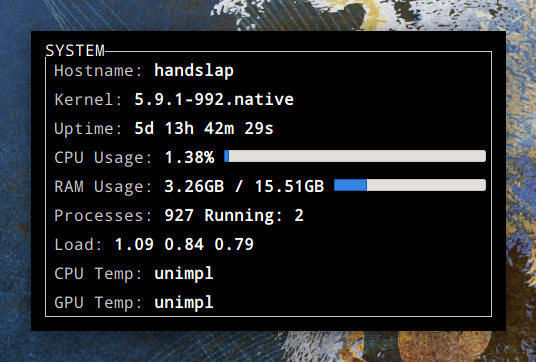
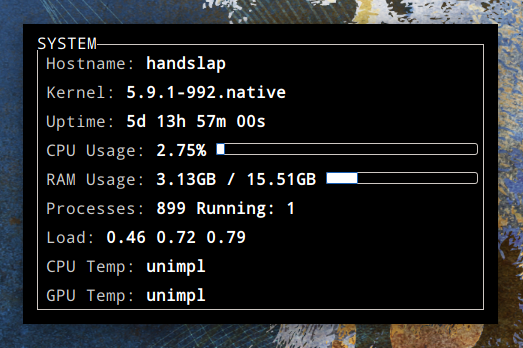
CSS to make progress wob

diff --git a/src/styles/app.css b/src/styles/app.css
@@ -39,9 +39,11 @@ progressbar {
 }
 
 trough {
+    background-color: #000;
     min-height: 10px;
 }
 
-progress {
+progressbar > trough > progress {
+    background-color: #fff;
     min-height: 10px;
 }
